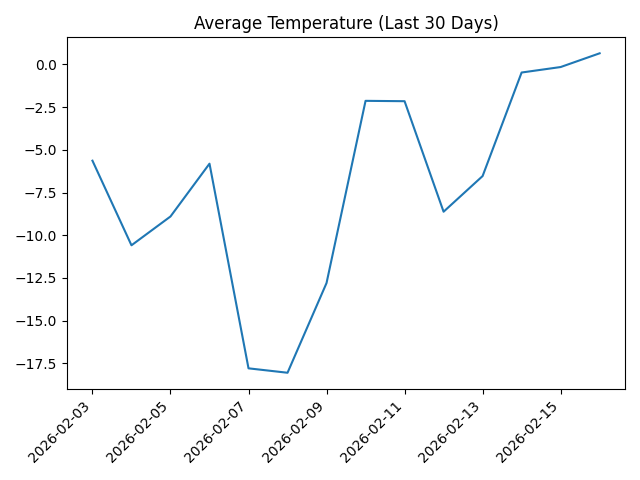
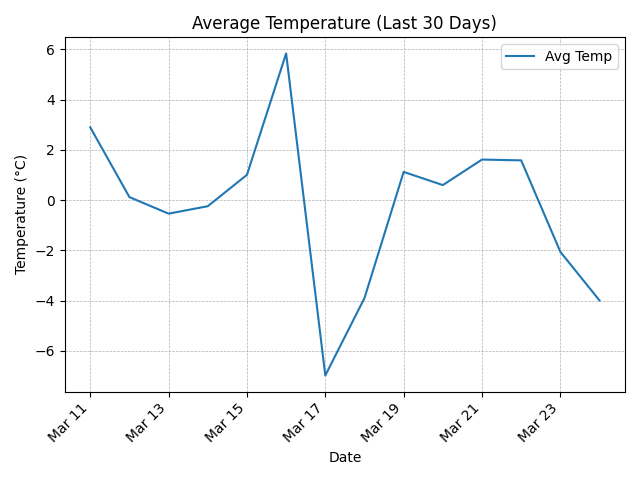
Restore pipeline + improve chart labeling and readability

diff --git a/etl/extract_openaq.py b/etl/extract_openaq.py
@@ -1,0 +1,30 @@
+import requests
+import pandas as pd
+
+def fetch_air_quality_hourly(lat: float, lon: float, timezone: str, past_days: int = 7) -> pd.DataFrame:
+    """
+    Pull past N days of hourly air quality from Open-Meteo Air Quality API.
+    Returns: ts, pm25, pm10, no2, o3
+    """
+    url = "https://air-quality-api.open-meteo.com/v1/air-quality"
+    params = {
+        "latitude": lat,
+        "longitude": lon,
+        "hourly": "pm2_5,pm10,nitrogen_dioxide,ozone",
+        "past_days": past_days,
+        "timezone": timezone
+    }
+
+    r = requests.get(url, params=params, timeout=30)
+    r.raise_for_status()
+    j = r.json()
+
+    h = j["hourly"]
+    df = pd.DataFrame({
+        "ts": pd.to_datetime(h["time"]),
+        "pm25": h.get("pm2_5"),
+        "pm10": h.get("pm10"),
+        "no2": h.get("nitrogen_dioxide"),
+        "o3": h.get("ozone"),
+    })
+    return df

diff --git a/etl/load_air_quality_duckdb.py b/etl/load_air_quality_duckdb.py
@@ -1,0 +1,19 @@
+import duckdb
+import pandas as pd
+
+def upsert_air_quality(db_path: str, df_air: pd.DataFrame, location_id: int = 1) -> None:
+    con = duckdb.connect(db_path)
+    df = df_air.copy()
+    df["location_id"] = location_id
+    con.register("a", df)
+
+    con.execute("""
+        INSERT INTO fact_air_quality_hourly(location_id, ts, pm25, pm10, no2, o3)
+        SELECT location_id, ts, pm25, pm10, no2, o3 FROM a
+        ON CONFLICT(location_id, ts) DO UPDATE SET
+          pm25=excluded.pm25,
+          pm10=excluded.pm10,
+          no2=excluded.no2,
+          o3=excluded.o3
+    """)
+    con.close()

diff --git a/etl/transform_air_quality.py b/etl/transform_air_quality.py
@@ -1,0 +1,13 @@
+import pandas as pd
+
+def clean_air_quality(df: pd.DataFrame) -> pd.DataFrame:
+    out = df.copy()
+    out["ts"] = pd.to_datetime(out["ts"], errors="coerce")
+    out = out.dropna(subset=["ts"])
+
+    for col in ["pm25", "pm10", "no2", "o3"]:
+        if col in out.columns:
+            out.loc[out[col] < 0, col] = None
+
+    out = out.drop_duplicates(subset=["ts"]).sort_values("ts").reset_index(drop=True)
+    return out

diff --git a/README.md b/README.md
@@ -1,21 +1,40 @@
 # City Conditions ETL (Daily)
 
-This project builds an end-to-end ETL pipeline that pulls daily-updating weather data, cleans it, loads it into a DuckDB analytics warehouse, and publishes stakeholder-ready KPIs and charts.
+Automated end-to-end ETL pipeline that pulls daily-updating **weather + air quality** data, loads it into a DuckDB analytics warehouse, and publishes KPI reports + charts.
 
 ## Latest KPI snapshot
 
-- Date: **2026-02-23**
-- Avg Temp (°C): **-3.6**
-- Max Temp (°C): **-0.4**
+- Date: **2026-03-24**
+- Avg Temp (°C): **-4.0**
+- Max Temp (°C): **-0.5**
 - Total Precip (mm): **0.0**
-- Avg Wind (km/h): **19.12**
-- Max Wind (km/h): **25.2**
+- Avg Wind (km/h): **10.33**
+- Max Wind (km/h): **17.8**
+- PM2.5 Avg (µg/m³): **NA**
+- PM2.5 Peak (µg/m³): **NA**
 
 ## Charts (auto-updated)
 
+**How to read these:**
+- X-axis is **date** (last 30 days)
+- Y-axis shows the **measured unit** for that chart (°C, mm, µg/m³)
+- Values are **daily aggregates** computed from hourly data in the warehouse
+
+### Weather
+
+- **Average Temperature (°C):** daily mean temperature
+
 ![Average Temperature (30d)](reports/charts/avg_temp_30d.png)
 
+- **Total Precipitation (mm):** total precipitation accumulated per day
+
 ![Daily Precipitation (30d)](reports/charts/precip_30d.png)
+
+### Air Quality
+
+- **PM2.5 (µg/m³):** daily average fine particulate concentration (smaller = cleaner air)
+
+![PM2.5 Average (30d)](reports/charts/pm25_avg_30d.png)
 
 ## Outputs
 
